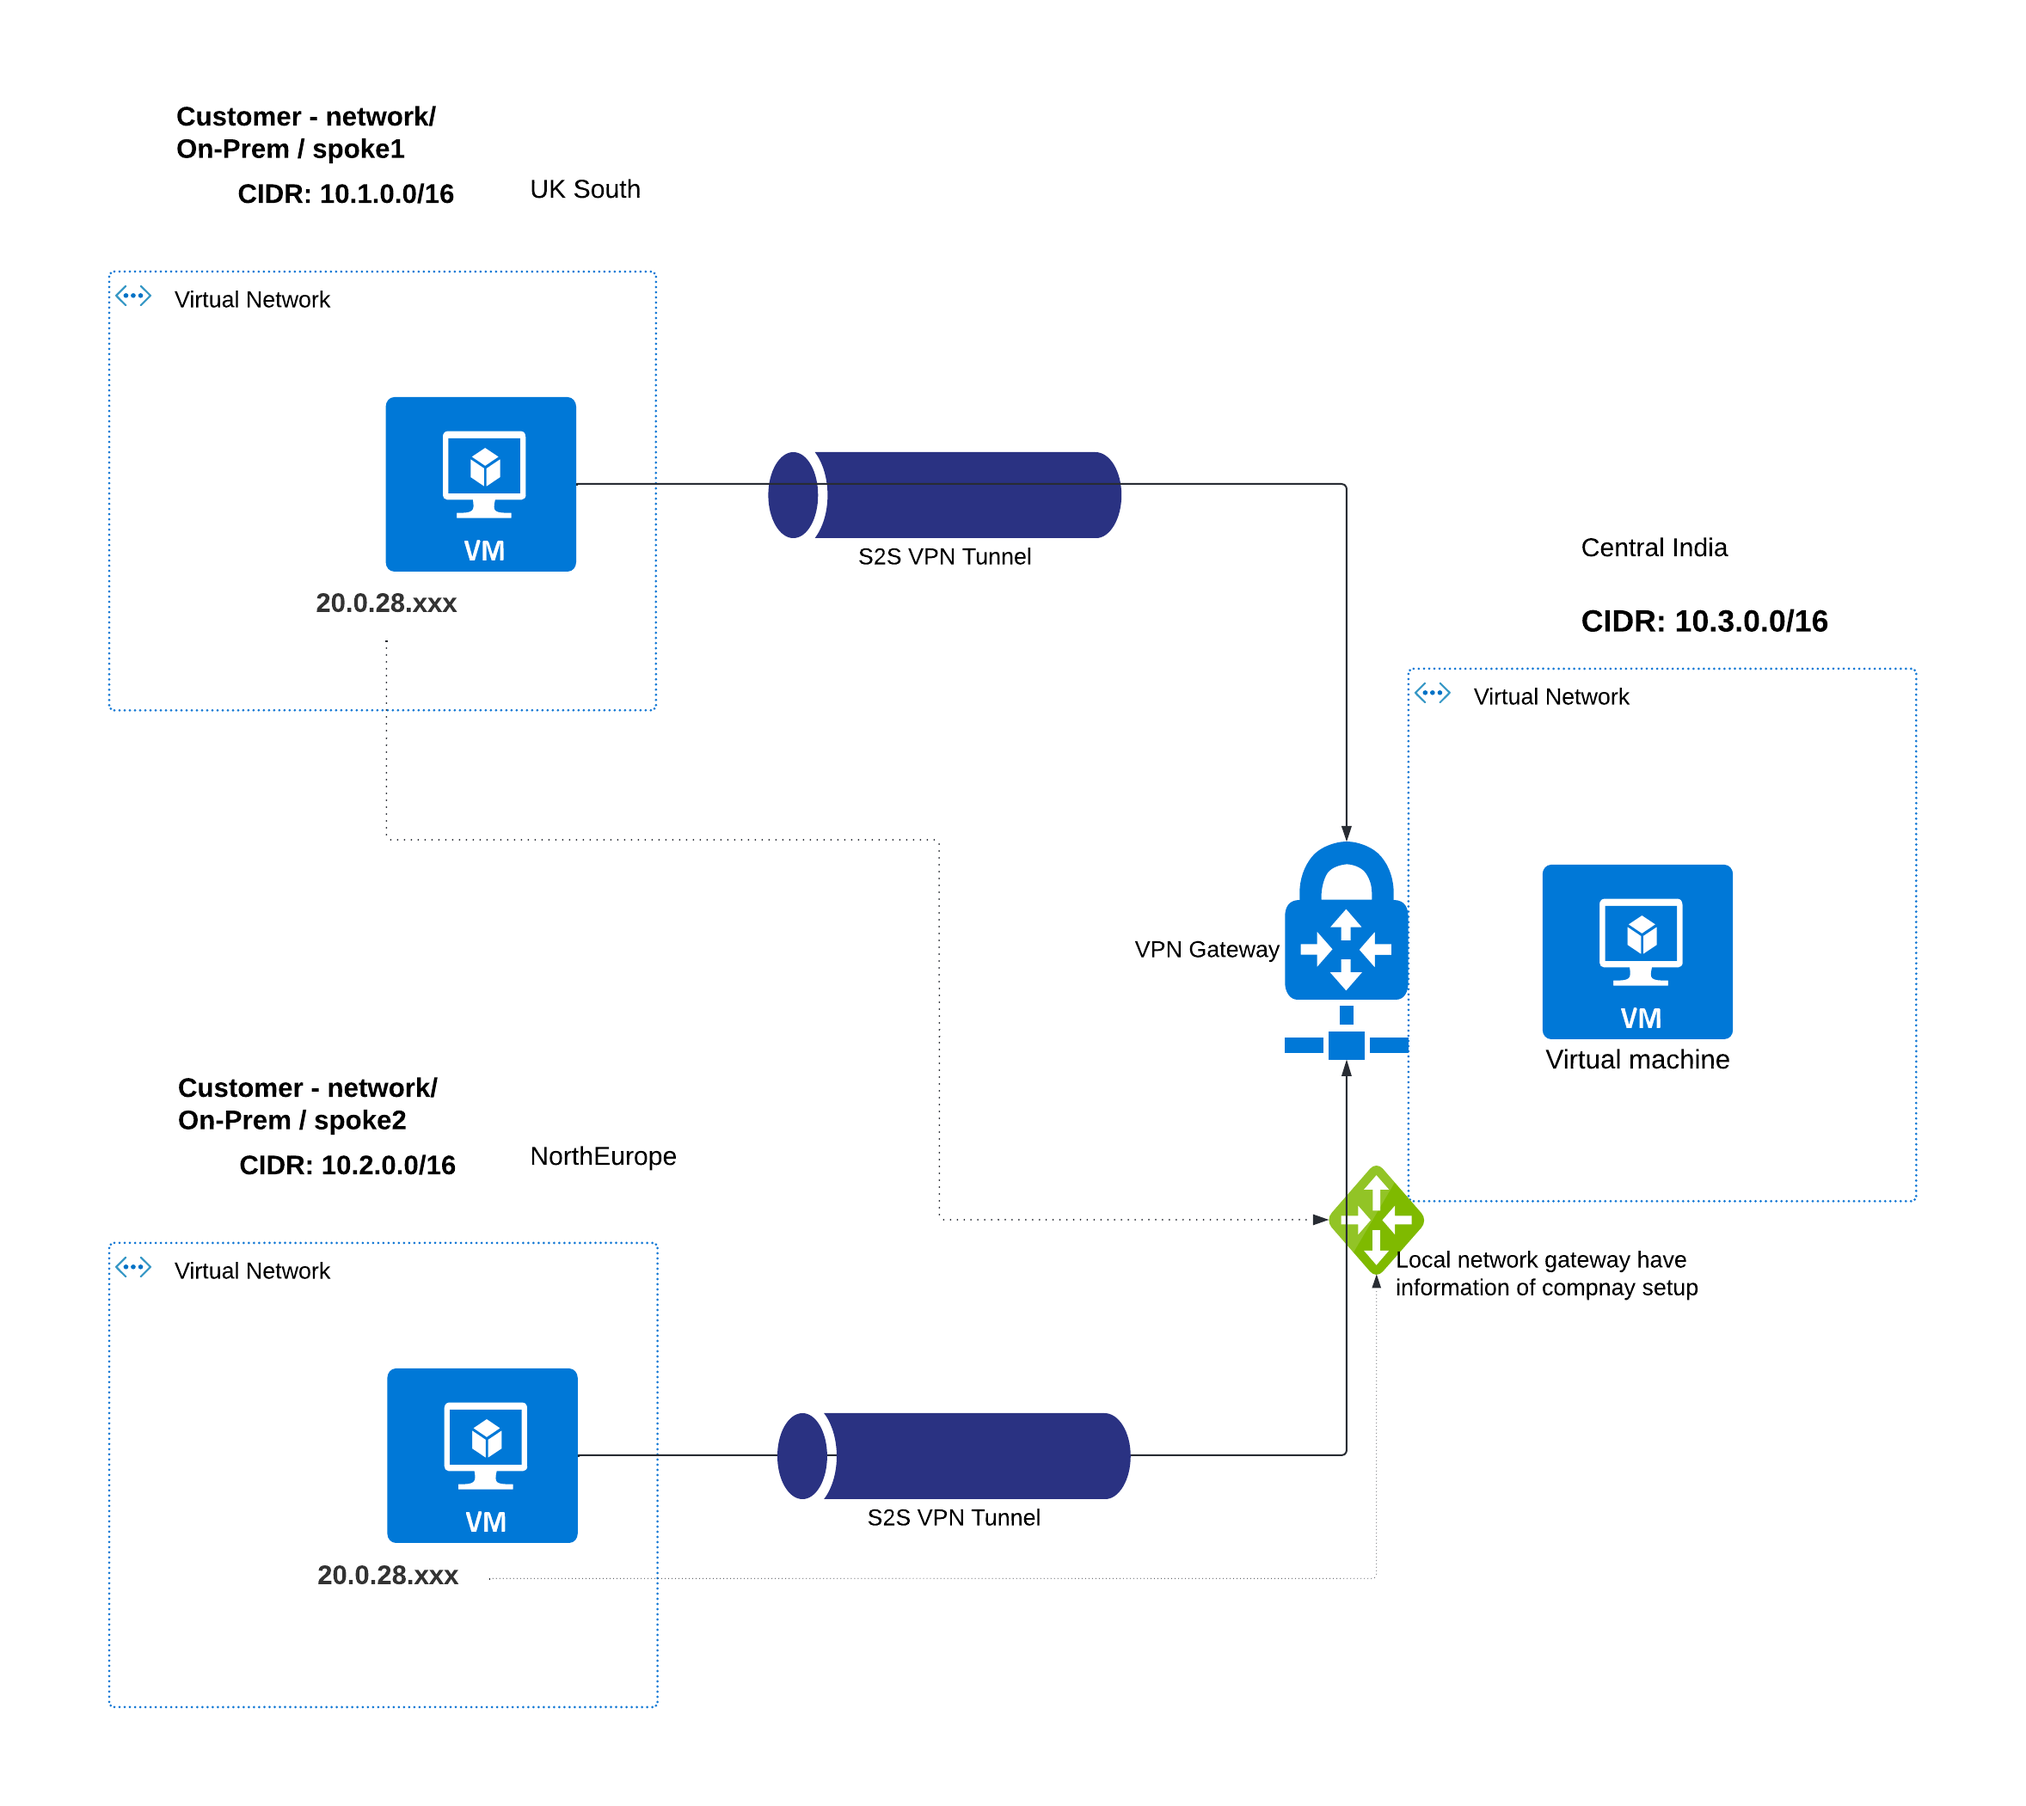
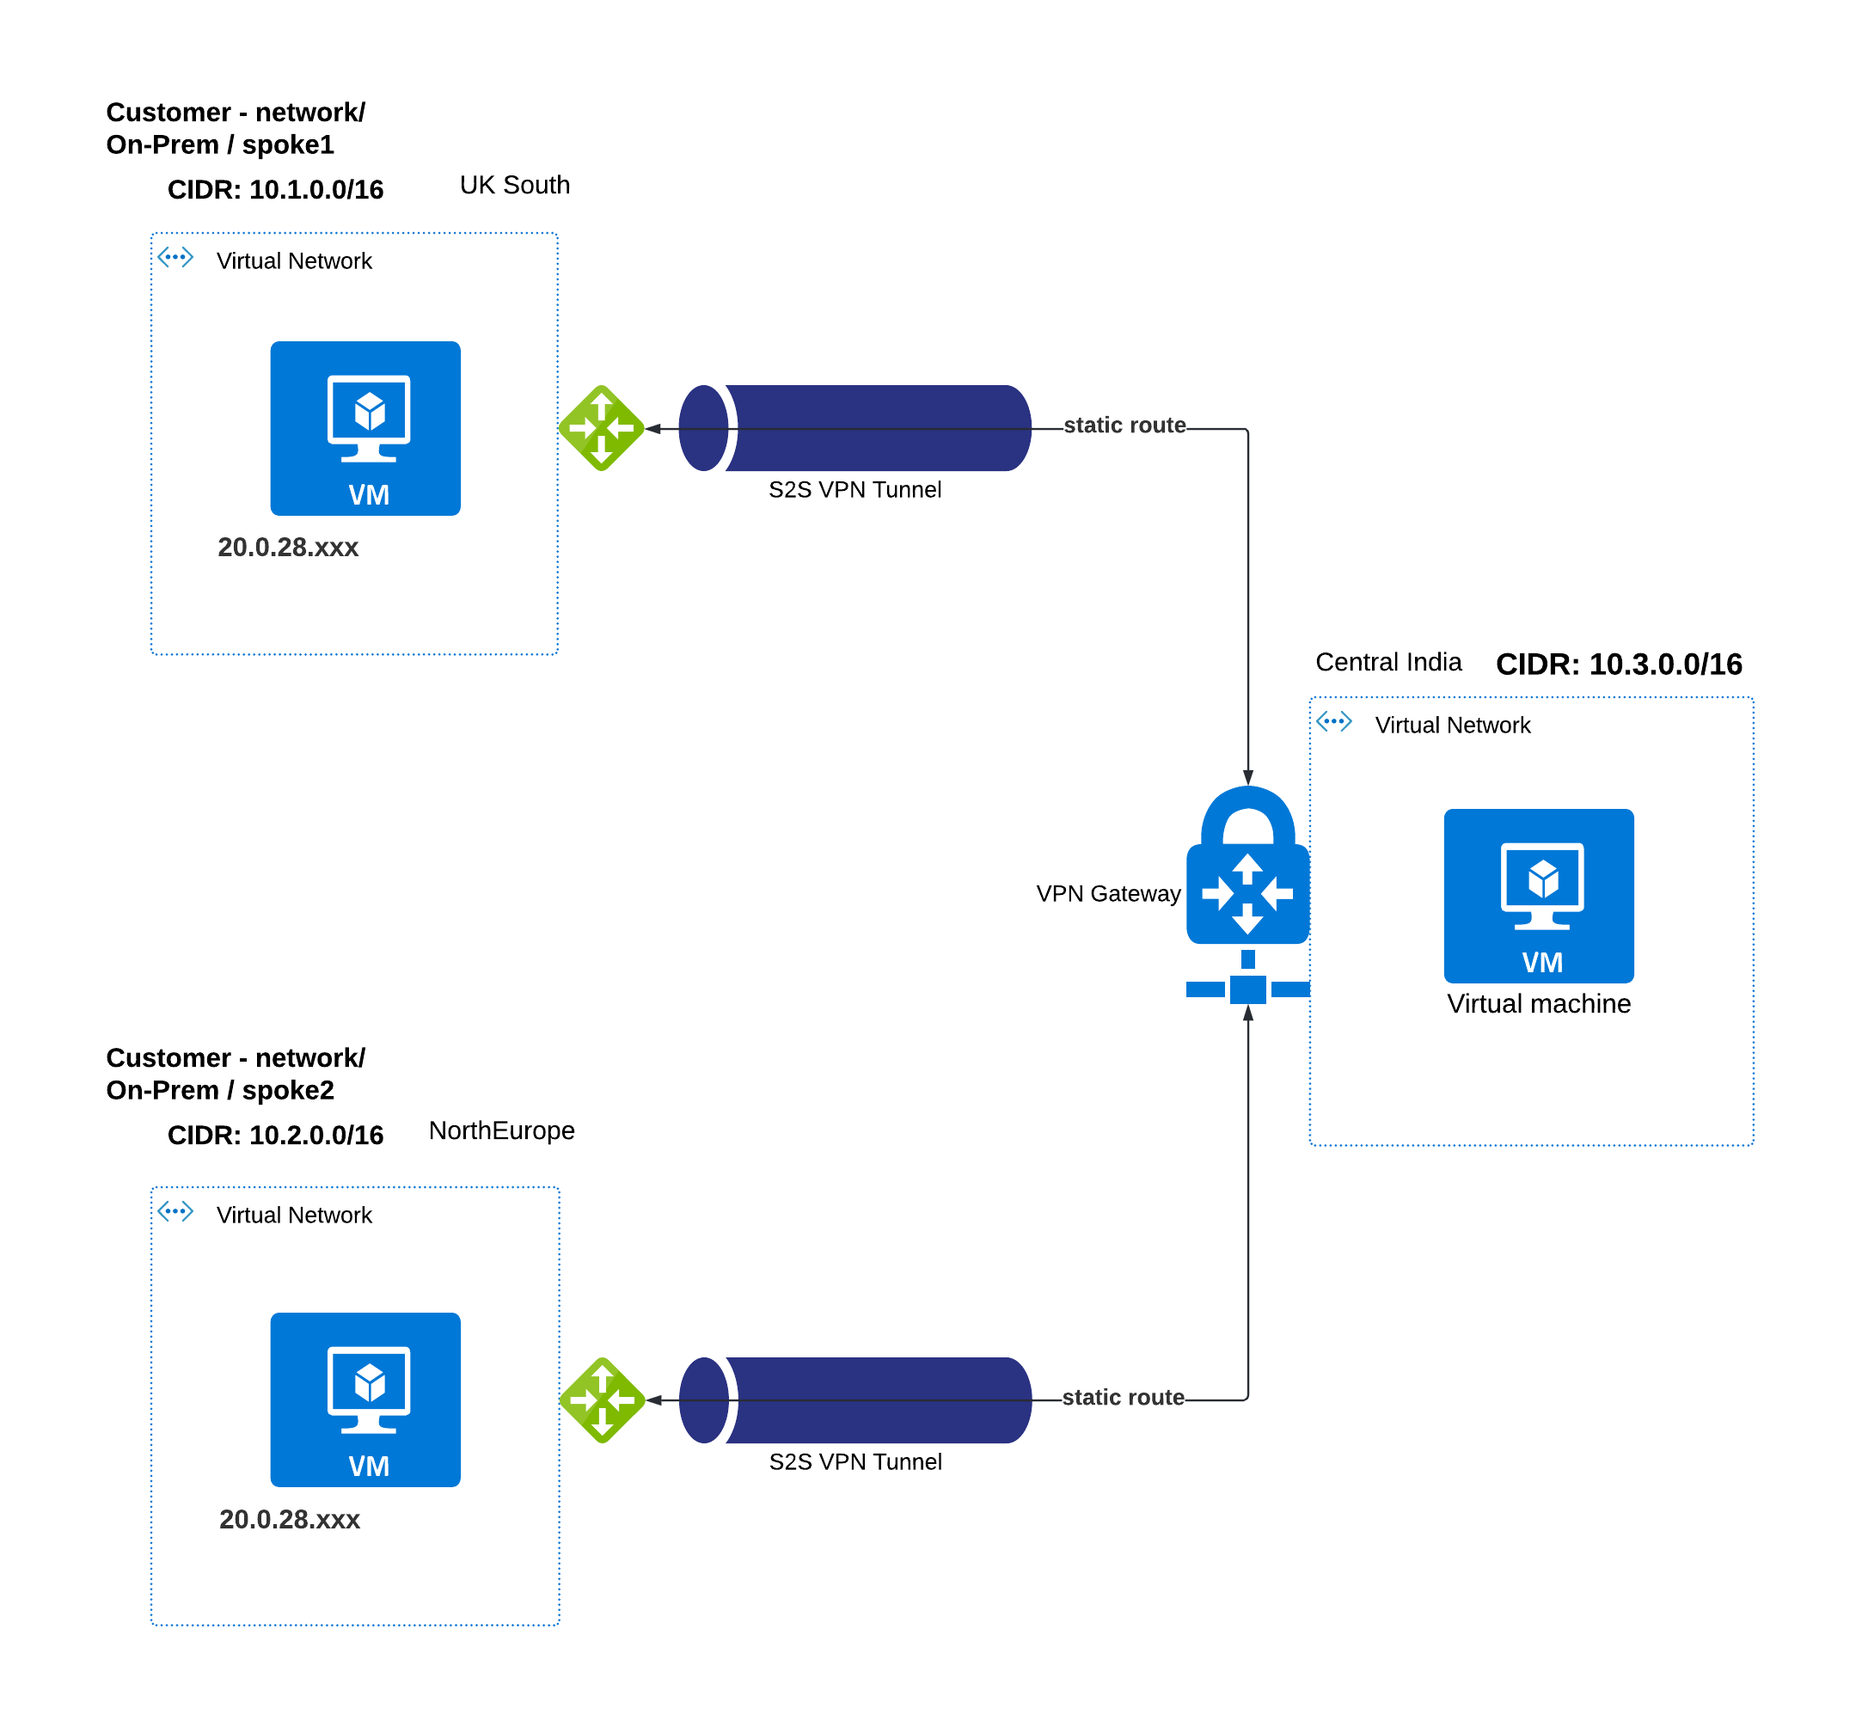
updated description and design

diff --git a/README.md b/README.md
@@ -19,7 +19,7 @@ This repo contains two spoke accounts (simulated on-prem network) with respectiv
 2. Navigate to your Virtual Machines for public ip's.
 3. Copy these VM (acts as network virtual appliance) public ip's, required for VPN setup in later section.
 4. Clone this repo and change below parameters  or keep default. **Note**: Change the *spoke1_Vm_pip* and *spoke2_Vm_pip* (use vm ips copied from above steps)
-```
+```azcli
   resource_group_location = "northeurope"
   vnet_cidr = "10.6.0.0/16"
   public_subnet_address = "10.6.1.0/24"
@@ -32,10 +32,11 @@ This repo contains two spoke accounts (simulated on-prem network) with respectiv
   spoke2_Vm_pip = "87.49.45.xx"
 ```
 1. execute below cmds: (Goto dir: /site-to-site-terrafrom)
-   - terraform init
-   - terraform plan
-   - terraform apply
-
+  
+```terraform
+  terraform init
+  terraform apply
+```
 
 
 **Note**: If fails, try to execute: *terraform init -upgrade* on terminal and execute cmd: *terraform apply --auto-approve*
@@ -87,7 +88,7 @@ Goto → Virtuanl Network Gateway (VPN Gateway) → On left side click: connecti
 ![](/pics/VPNGW-connection.png)
 
 The update will take sometime.
-- Open browser enter destination VM private ip to see Microsoft default page over S2S.
+- Connect VM, open browser enter destination VM private ip to see Microsoft default page over S2S.
 
 Links: 
 - [https://learn.microsoft.com/en-us/azure/vpn-gateway/tutorial-create-gateway-portal](https://learn.microsoft.com/en-us/azure/vpn-gateway/tutorial-create-gateway-portal)
